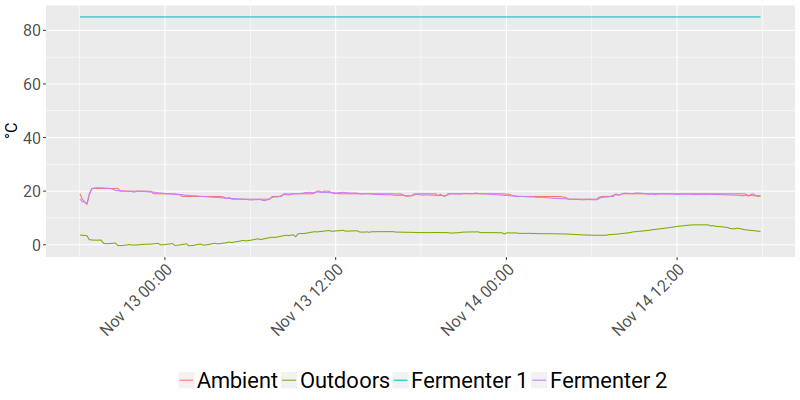
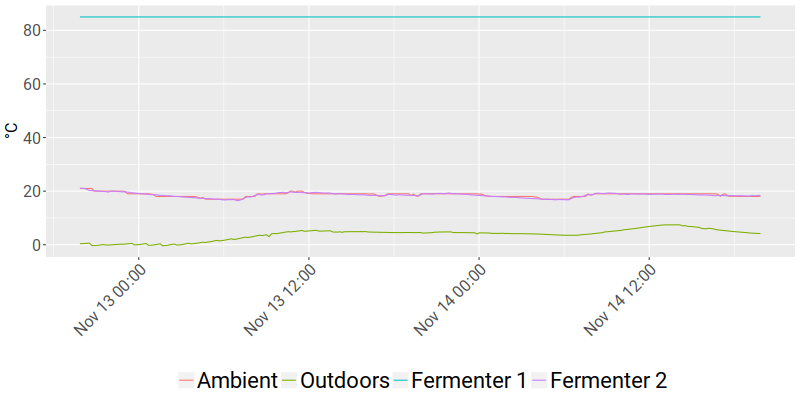
Update live temperature on site

diff --git a/temperature.js b/temperature.js
@@ -1,1 +1,1 @@
-document.write("<h4>Inside Temperature: 18.06°C</h4><h4>Outside Temperature: 4.97°C</h4><h4>Fermenter 1 Temperature: 85.0°C</h4><h4>Fermenter 2 Temperature: 18.31°C</h4><h4>Inside Humidity: 22.0%</h4><h4>Outside Humidity: 66.0%</h4><br>Last update: 2017-11-14 17:51:31");
+document.write("<h4>Inside Temperature: 18.09°C</h4><h4>Outside Temperature: 4.17°C</h4><h4>Fermenter 1 Temperature: 85.0°C</h4><h4>Fermenter 2 Temperature: 18.44°C</h4><h4>Inside Humidity: 22.09%</h4><h4>Outside Humidity: 69.0%</h4><br>Last update: 2017-11-14 19:50:52");
